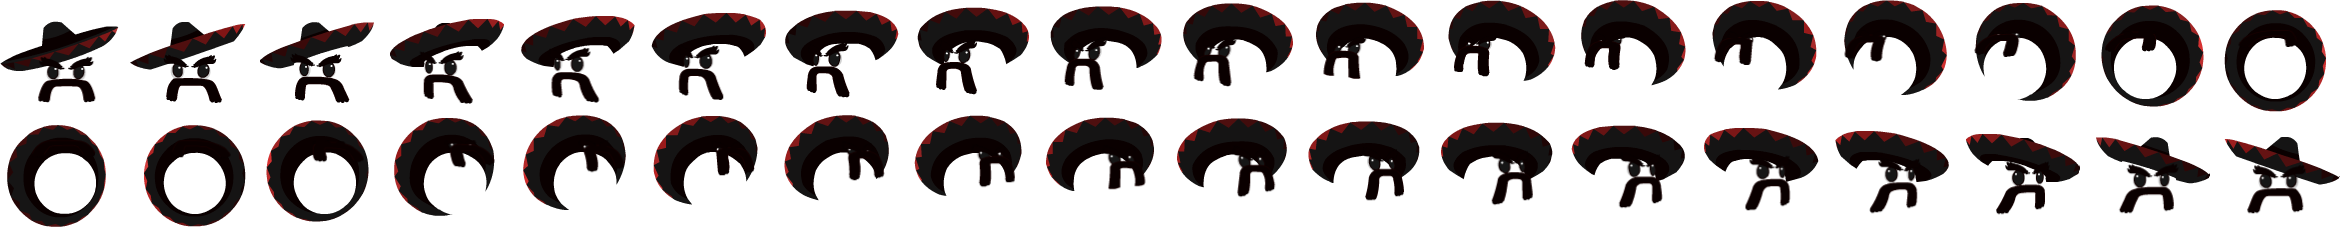
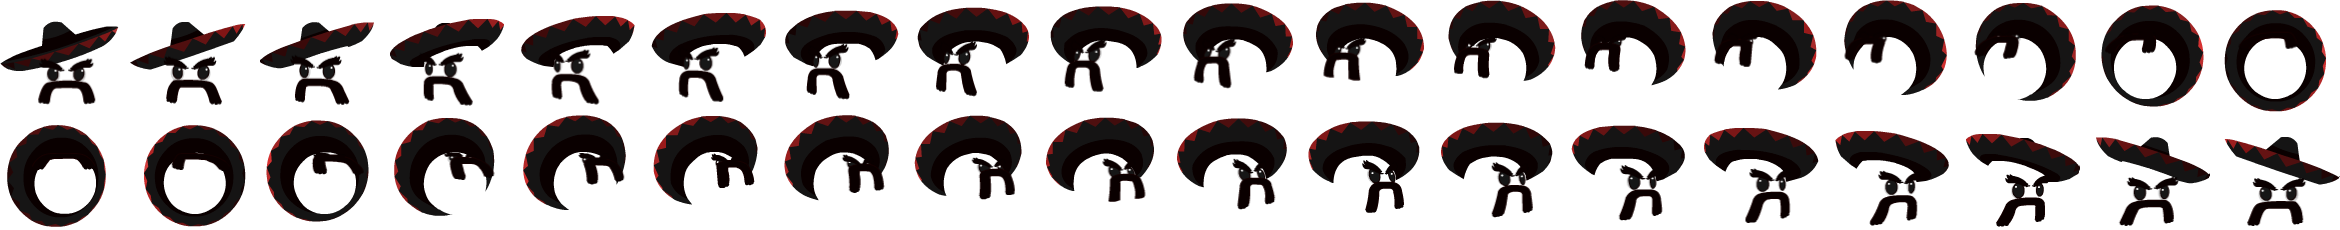
Fixy fixy,
Can now jump off steeper slopes
Only Mexican skin has idle anim
Player numbers now only appear in football mode

diff --git a/src/AI/PlayerInputController.java b/src/AI/PlayerInputController.java
@@ -153,7 +153,7 @@ public class PlayerInputController extends iAIController implements iEventListen
         if (mGrabImmunityTimer != 0)
             mGrabImmunityTimer--;
         mLeftStickValueThisFrame = mRightStickValueThisFrame = 0.0f;
-        if(idleTimer == -1)
+        if(idleTimer <= -1)
             mEntity.stopIdle();
         if (mStunTimer != 0)
             mStunTimer--;
@@ -161,7 +161,7 @@ public class PlayerInputController extends iAIController implements iEventListen
         mTongueState.tick(mEntity);
         ((PlayerEntity)mEntity).setDirection(mPlayerDir);
         idleTimer++;
-        if(mEntity.isIdle())
+        if(mEntity.isIdle() && mSkinRef.equals("mexican"))
         {
             if(idleTimer >= idleDelay)
             {
@@ -171,8 +171,8 @@ public class PlayerInputController extends iAIController implements iEventListen
                     {
                         //ensure other animations are deactivated
                         mEntity.mSkin.deactivateSubSkin(mSkinRef+"_"+mFaceDirAnim);
-                        mEntity.mSkin.deactivateSubSkin("idle_burp2");
                         mEntity.mSkin.activateSubSkin("idle_burp2", false, 1.0f);
+                        mEntity.mSkin.restart();
                     }
                 }
                 else
@@ -181,8 +181,8 @@ public class PlayerInputController extends iAIController implements iEventListen
                     {
                         //ensure other animations are deactivated
                         mEntity.mSkin.deactivateSubSkin(mSkinRef+"_"+mFaceDirAnim);
-                        mEntity.mSkin.deactivateSubSkin("idle_burp2_right");
                         mEntity.mSkin.activateSubSkin("idle_burp2_right", false, 1.0f);
+                        mEntity.mSkin.restart();
                     }
                 }
                 idleDelay = rand.nextInt(360) + 180; //min 5 second
@@ -322,7 +322,7 @@ public class PlayerInputController extends iAIController implements iEventListen
             return true;
         if(mEntity.isIdle())
             ((PlayerEntity)mEntity).stopIdle();
-        if (mStunTimer == 0)
+        if (mStunTimer <= 0)
         {
             mEntity.mSkin.deactivateSubSkin("pea_stun_large");
             if (_event.getType().equals("RightStickEvent"))

diff --git a/src/Entities/AIEntity.java b/src/Entities/AIEntity.java
@@ -20,6 +20,7 @@ import World.BreakableTongueAnchor;
 import World.sWorld;
 import java.util.Stack;
 import org.jbox2d.common.Vec2;
+import org.jbox2d.dynamics.Body;
 import org.jbox2d.dynamics.Fixture;
 import org.jbox2d.dynamics.contacts.ContactEdge;
 import org.jbox2d.dynamics.joints.RevoluteJoint;
@@ -36,6 +37,7 @@ public class AIEntity extends Entity
     protected boolean mAllowRoll = false;
     protected int mJumpTimer;
     protected Tile mTouchingTile;
+    protected Body mTouchingBody;
     protected Tile mLastTouchingTile;
     protected String mCurrentAnimation;
     protected float mAnimSpeed;
@@ -182,6 +184,12 @@ public class AIEntity extends Entity
                 {
                     if(edge.contact.isTouching())
                     {
+                        //if colliding with 
+                        if (other.m_filter.categoryBits == (1 << sWorld.BodyCategories.eEnemy.ordinal()) ||
+                                other.m_filter.categoryBits == (1 << sWorld.BodyCategories.ePlayer.ordinal()))
+                        {
+                            
+                        }
                         if(((Tile)other.getUserData()) != null && !other.isSensor() )
                         {
                             mTouchingTile = ((Tile)other.getUserData());
@@ -192,7 +200,7 @@ public class AIEntity extends Entity
                     }
                     mFloorNormal = collisionNorm.clone();
                 }
-                else if(collisionNorm.y < -0.3)// slopes -- (collisionNorm.y > 0.3) gives roof slopes
+                else if(collisionNorm.y < -0.15)// slopes -- (collisionNorm.y > 0.3) gives roof slopes
                 {
                     if(edge.contact.isTouching() && !other.isSensor())
                     {

diff --git a/src/Entities/PlayerEntity.java b/src/Entities/PlayerEntity.java
@@ -43,6 +43,7 @@ import org.newdawn.slick.geom.Vector2f;
  */
 public class PlayerEntity extends AIEntity
 {
+    protected   int                 mPlayerNumber = 0;
     protected   String              mSkinType = "mexican";
     protected   String              mBodyType = "bdy";
     private     CheckPointZone      mOriginalSpawnPoint;
@@ -135,6 +136,8 @@ public class PlayerEntity extends AIEntity
         params.put("ref", "characters/Player" + (((PlayerInputController)mController).mPlayer+1));
         //mTeamRender = sSpriteFactory.create("simple", params, true);
     }
+    public void setPlayerNumber(int _num){mPlayerNumber = _num;}
+    public int getPlayerNumber(){return mPlayerNumber;}
     @Override
     public void setController(iAIController _controller)
     {

diff --git a/src/Entities/PlayerFactory.java b/src/Entities/PlayerFactory.java
@@ -73,9 +73,10 @@ public class PlayerFactory implements iEntityFactory {
             iSkin skin = sSkinFactory.create("character", params);
             
             skin.activateSubSkin("bdy", false, 0);
-            skin.activateSubSkin("Player" + (playerNum+1), false, 0);
+            //skin.activateSubSkin("Player" + (playerNum+1), false, 0); //this is only activated for football (see FootballMode)
 
             PlayerEntity entity = new PlayerEntity(skin, checkPoint);
+            entity.setPlayerNumber(playerNum+1); //we need to set the player number to activate it based on gamemode
             HashMap parameters = new HashMap();
             parameters.put("position", position);
             parameters.put("aIEntity", entity);

diff --git a/src/States/Game/FootballMode/FootballMode.java b/src/States/Game/FootballMode/FootballMode.java
@@ -48,7 +48,7 @@ public class FootballMode implements iGameMode, iEventListener
         sLevel.newLevel(_level);
         for(int i = 0; i < players.size(); i++)
         {
-            players.get(i).mSkin.activateSubSkin("Player" + (i+1), false, 0);
+            players.get(i).mSkin.activateSubSkin("Player" + players.get(i).getPlayerNumber(), false, 0);
         }
     }
     
